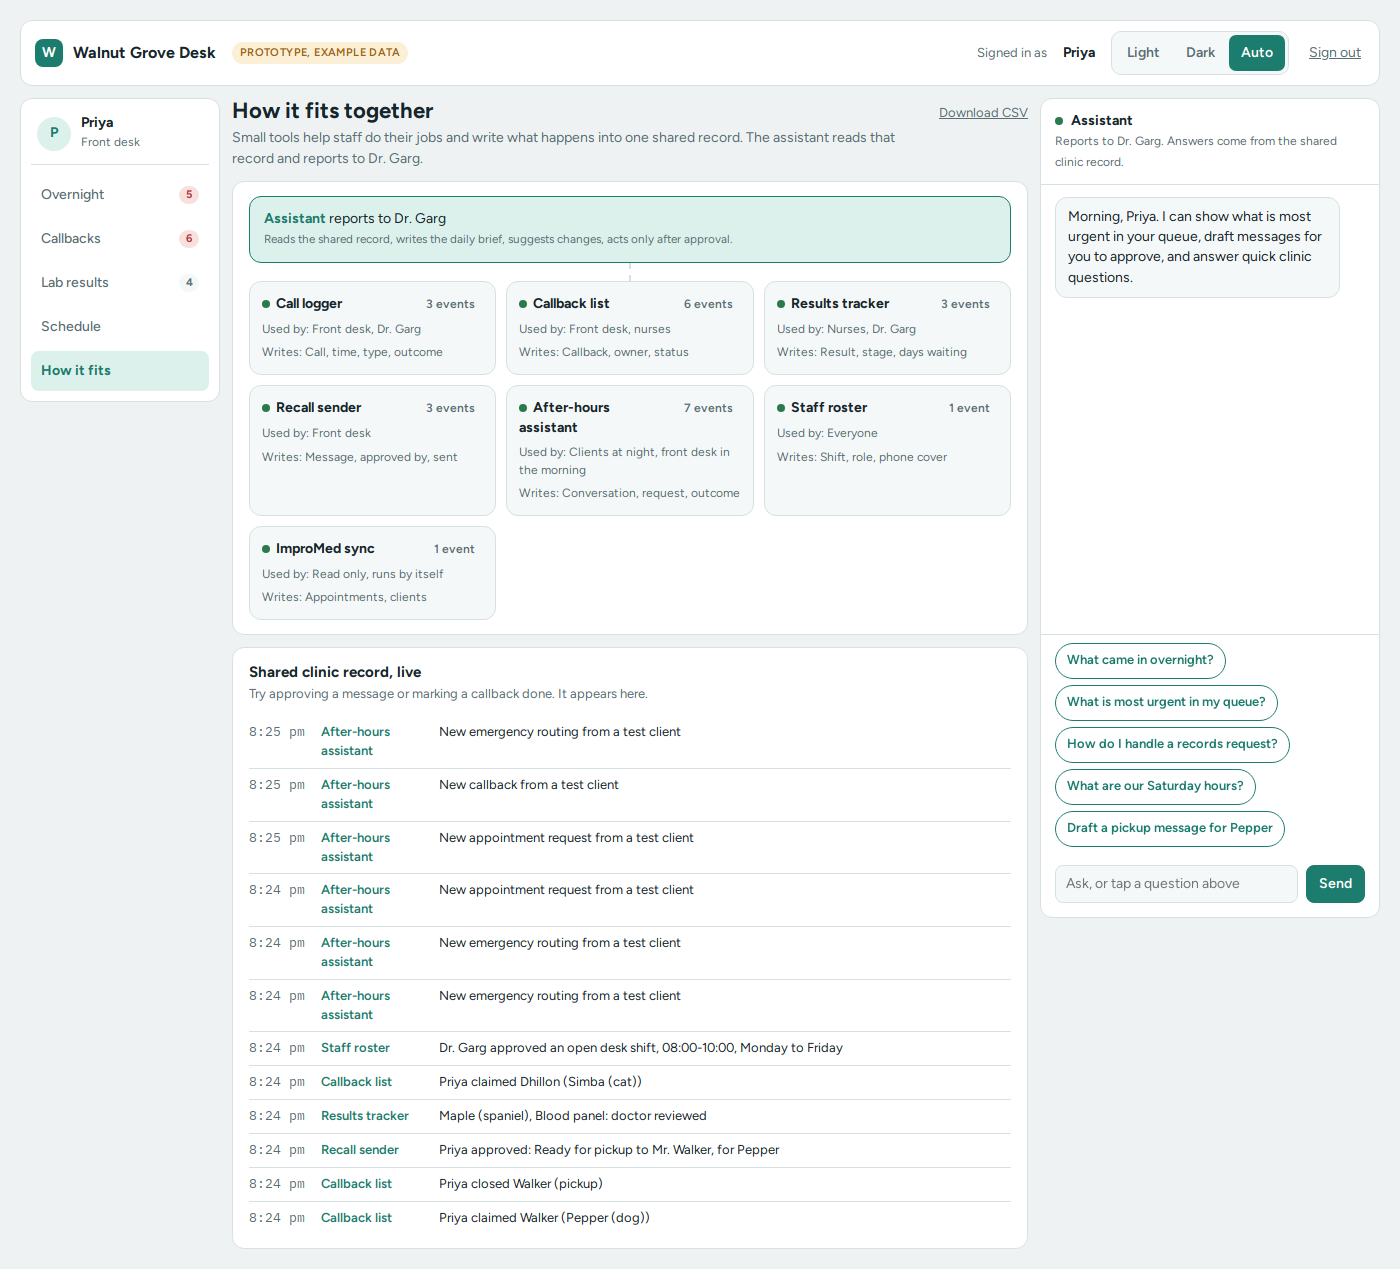
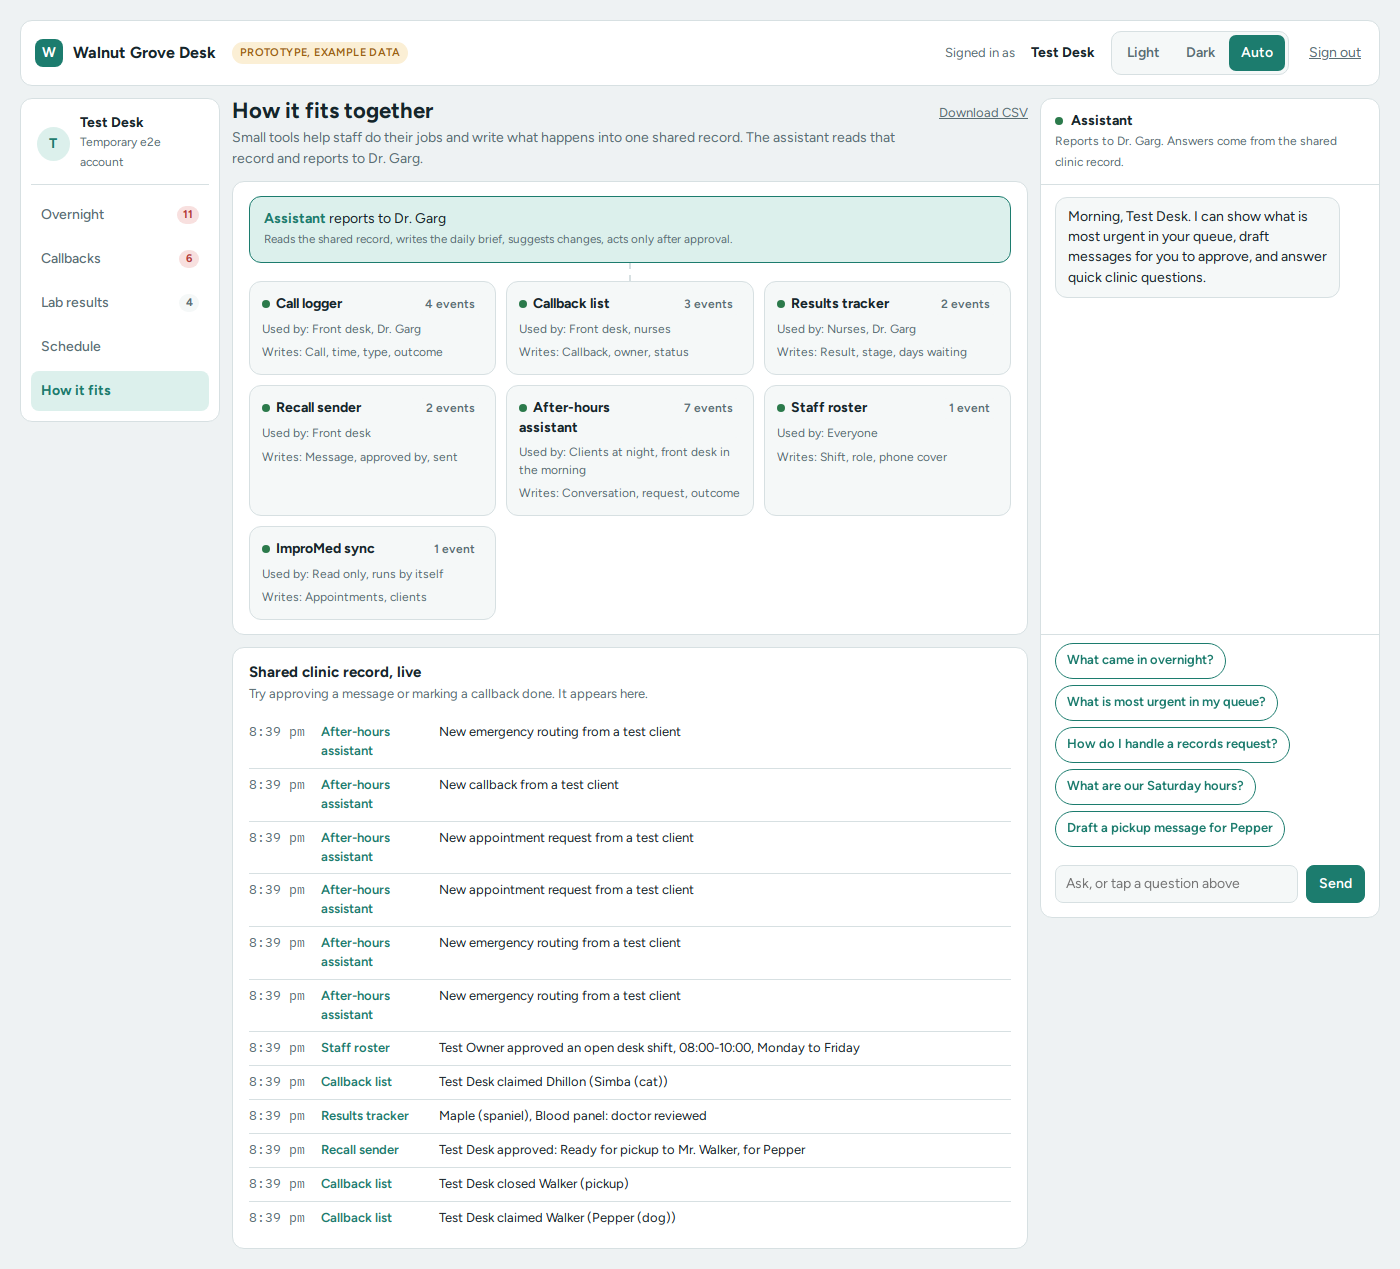
Security, operations and progress docs; e2e usernames configurable

diff --git a/e2e/test_flows.py b/e2e/test_flows.py
@@ -6,6 +6,10 @@ from playwright.sync_api import expect
 
 from helpers import BASE, sign_in
 
+OWNER = os.environ.get("WALNUT_E2E_OWNER", "garg")
+DESK = os.environ.get("WALNUT_E2E_DESK", "priya")
+NURSE = os.environ.get("WALNUT_E2E_NURSE", "anita")
+
 
 def page_for(ctx, user):
     p = ctx().new_page()
@@ -17,7 +21,7 @@ def go(p, label):
     p.get_by_role("link", name=re.compile("^" + label)).click()
 
 
-@pytest.mark.parametrize("user,landing", [("garg", "Good"), ("priya", "Overnight"), ("anita", "Lab results")])
+@pytest.mark.parametrize("user,landing", [(OWNER, "Good"), (DESK, "Overnight"), (NURSE, "Lab results")])
 def test_sign_in_each_role(ctx, user, landing):
     p = page_for(ctx, user)
     expect(p.get_by_role("heading", level=1).first).to_contain_text(landing)
@@ -27,14 +31,14 @@ def test_sign_in_each_role(ctx, user, landing):
 def test_wrong_password_generic(ctx):
     p = ctx().new_page()
     p.goto(BASE + "/login")
-    p.get_by_label("Username").fill("priya")
+    p.get_by_label("Username").fill(DESK)
     p.get_by_label("Password").fill("not-the-password")
     p.get_by_role("button", name="Sign in").click()
     expect(p.get_by_role("alert")).to_have_text("Wrong username or password")
 
 
 def test_desk_claims_done_and_approves_draft(ctx):
-    p = page_for(ctx, "priya")
+    p = page_for(ctx, DESK)
     go(p, "Callbacks")
     row = p.locator(".row", has_text="Walker").first
     row.get_by_role("button", name="I will call back").click()
@@ -49,7 +53,7 @@ def test_desk_claims_done_and_approves_draft(ctx):
 
 
 def test_nurse_advances_result_and_cannot_see_drafts(ctx):
-    p = page_for(ctx, "anita")
+    p = page_for(ctx, NURSE)
     go(p, "Lab results")
     btn = p.get_by_role("button", name="Mark reviewed").first
     btn.click()
@@ -59,18 +63,18 @@ def test_nurse_advances_result_and_cannot_see_drafts(ctx):
 
 
 def test_live_update_between_two_users(ctx):
-    desk = page_for(ctx, "priya")
-    nurse = page_for(ctx, "anita")
+    desk = page_for(ctx, DESK)
+    nurse = page_for(ctx, NURSE)
     go(desk, "Callbacks")
     go(nurse, "Callbacks")
     row = desk.locator(".row:not(.done)", has=desk.get_by_role("button", name="I will call back")).first
     who = row.locator(".who").inner_text().split(" for ")[0].strip()
     row.get_by_role("button", name="I will call back").click()
-    expect(nurse.locator(".row", has_text=who).first.locator(".tag.acc")).to_contain_text("With Priya", timeout=5000)
+    expect(nurse.locator(".row", has_text=who).first.locator(".tag.acc")).to_contain_text("With " + os.environ.get("WALNUT_E2E_DESK_NAME", "Priya"), timeout=5000)
 
 
 def test_owner_approves_desk_shift(ctx):
-    p = page_for(ctx, "garg")
+    p = page_for(ctx, OWNER)
     rec = p.locator(".rec", has_text="open desk shift").first
     rec.get_by_role("button", name="Approve").click()
     expect(p.get_by_text("Added to the schedule")).to_be_visible()
@@ -89,7 +93,7 @@ def run_sim(p, channel, first_option, expect_text):
 
 @pytest.mark.parametrize("channel", ["Text message", "Phone call"])
 def test_simulator_emergency(ctx, channel):
-    p = page_for(ctx, "priya")
+    p = page_for(ctx, DESK)
     sim = run_sim(p, channel, "Something urgent", "")
     expect(sim.locator(".bub.bot").last).to_contain_text("vet", timeout=5000)
     expect(p.get_by_text("New emergency routing")).to_have_count(0)  # event text is in the feed, not here
@@ -98,7 +102,7 @@ def test_simulator_emergency(ctx, channel):
 
 @pytest.mark.parametrize("channel", ["Text message", "Phone call"])
 def test_simulator_booking_and_free_text(ctx, channel):
-    p = page_for(ctx, "priya")
+    p = page_for(ctx, DESK)
     go(p, "Overnight")
     sim = p.locator("#sim")
     sim.get_by_role("button", name=channel, exact=True).click()
@@ -111,7 +115,7 @@ def test_simulator_booking_and_free_text(ctx, channel):
 
 
 def test_simulator_refill_and_typed_message(ctx):
-    p = page_for(ctx, "priya")
+    p = page_for(ctx, DESK)
     go(p, "Overnight")
     sim = p.locator("#sim")
     sim.get_by_role("button", name="Refill or food order").click()
@@ -125,7 +129,7 @@ def test_simulator_refill_and_typed_message(ctx):
 
 
 def test_desk_blocked_from_brief(ctx):
-    p = page_for(ctx, "priya")
+    p = page_for(ctx, DESK)
     expect(p.get_by_role("link", name=re.compile("^Brief"))).to_have_count(0)
     r = p.request.get(BASE + "/api/brief")
     assert r.status == 403
@@ -135,5 +139,5 @@ def test_desk_blocked_from_brief(ctx):
 
 
 def test_admin_hidden_from_non_admin(ctx):
-    p = page_for(ctx, "anita")
+    p = page_for(ctx, NURSE)
     expect(p.get_by_role("link", name="Admin")).to_have_count(0)

diff --git a/e2e/app_shots.py b/e2e/app_shots.py
@@ -1,3 +1,4 @@
+import os
 """Screenshots of every screen per role into docs/screenshots/app/. Usage: WALNUT_E2E_CREDS=... python e2e/app_shots.py"""
 import re
 import sys
@@ -8,11 +9,15 @@ from playwright.sync_api import sync_playwright
 sys.path.insert(0, str(Path(__file__).parent))
 from helpers import BASE, sign_in  # noqa: E402
 
+OWNER = os.environ.get("WALNUT_E2E_OWNER", "garg")
+DESK = os.environ.get("WALNUT_E2E_DESK", "priya")
+NURSE = os.environ.get("WALNUT_E2E_NURSE", "anita")
+
 OUT = Path(__file__).resolve().parent.parent / "docs" / "screenshots" / "app"
 OUT.mkdir(parents=True, exist_ok=True)
 VIEWS = {"brief": "Brief", "overnight": "Overnight", "callbacks": "Callbacks", "lab-results": "Lab results",
          "schedule": "Schedule", "after-hours-setup": "After-hours setup", "how-it-fits": "How it fits", "admin": "Admin"}
-USERS = {"garg": "garg", "desk": "priya", "nurse": "anita"}
+USERS = {OWNER: OWNER, "desk": DESK, "nurse": NURSE}
 
 with sync_playwright() as p:
     b = p.chromium.launch()
@@ -27,11 +32,11 @@ with sync_playwright() as p:
             link.click()
             pg.wait_for_timeout(900)
             pg.screenshot(path=str(OUT / f"{tag}-{slug}.png"), full_page=True)
-            if tag == "garg" and slug in ("brief", "overnight", "callbacks"):
+            if tag == OWNER and slug in ("brief", "overnight", "callbacks"):
                 pg.evaluate("document.documentElement.setAttribute('data-theme','dark')")
                 pg.screenshot(path=str(OUT / f"{tag}-{slug}-dark.png"), full_page=True)
                 pg.evaluate("document.documentElement.removeAttribute('data-theme')")
-        if tag == "garg":
+        if tag == OWNER:
             ph = b.new_context(viewport={"width": 390, "height": 844})
             pp = ph.new_page()
             sign_in(pp, user)

diff --git a/deploy/bin/walnut-backup.py b/deploy/bin/walnut-backup.py
@@ -1,0 +1,23 @@
+#!/opt/walnut-desk/.venv/bin/python
+"""Daily online backup of the app database (SQLite backup API), gzip, keep 14 days. Runs as walnut-app."""
+import datetime, glob, gzip, os, shutil, sqlite3, sys
+SRC = os.environ.get("WALNUT_DB_PATH", "/var/lib/walnut-desk/app.db")
+DIR = os.environ.get("WALNUT_BACKUP_DIR", "/var/lib/walnut-desk/backups")
+KEEP = int(os.environ.get("WALNUT_BACKUP_KEEP_DAYS", "14"))
+stamp = datetime.datetime.now(datetime.timezone.utc).strftime("%Y%m%d-%H%M%S")
+tmp = os.path.join(DIR, f".app-{stamp}.db")
+src, dst = sqlite3.connect(SRC), sqlite3.connect(tmp)
+src.backup(dst)
+ok = dst.execute("PRAGMA integrity_check").fetchone()[0]
+src.close(); dst.close()
+if ok != "ok":
+    os.unlink(tmp); sys.exit(f"integrity check failed: {ok}")
+out = os.path.join(DIR, f"app-{stamp}.db.gz")
+with open(tmp, "rb") as f, gzip.open(out, "wb") as g:
+    shutil.copyfileobj(f, g)
+os.chmod(out, 0o600); os.unlink(tmp)
+cut = datetime.datetime.now().timestamp() - KEEP * 86400
+old = [p for p in glob.glob(os.path.join(DIR, "app-*.db.gz")) if os.path.getmtime(p) < cut]
+for p in old:
+    os.unlink(p)
+print(f"backup ok {os.path.basename(out)} size={os.path.getsize(out)} removed_old={len(old)}")

diff --git a/docs/SECURITY.md b/docs/SECURITY.md
@@ -1,0 +1,52 @@
+# Security
+
+## Before any real clinic data goes in
+
+**Do not load real operational data (clients, pets, appointments, lab results, real call logs) until Dr. Garg has reviewed hosting, backups, consent and privacy obligations.** The clinic is in British Columbia, so BC's Personal Information Protection Act (PIPA) applies, along with the CVBC's rules on veterinary records. Items to decide first:
+
+1. **Hosting location.** The server is a Hetzner VM. Where it is located is not recorded here; check the Hetzner console. Decide whether data held outside Canada is acceptable, and tell clients if so.
+2. **Backups.** Daily backups are kept on the same machine, unencrypted (mode 600, app user only). Before real data: encrypt them (for example with `age` to a key kept offline) and copy them off the server.
+3. **Consent and recording.** Callers hear "This call is being recorded". Using those recordings for analysis and testing needs a stated purpose and a retention period.
+4. **AI provider.** DeepSeek processes data on servers outside Canada (China). All three AI switches are off by default. "Allow call transcripts to be sent for labeling" should stay off unless Dr. Garg decides this is acceptable and clients have been told.
+5. **Access reviews.** Review the user list monthly in Admin > Users and deactivate leavers the same day.
+6. **Audit retention.** The audit log (events table) is append-only and kept forever. Decide a retention period, for example 7 years to match record keeping.
+7. **Breach process.** Write down who to call, how to rotate secrets (see below), and the PIPA duty to notify affected people and the Commissioner when there is a real risk of significant harm.
+
+## Threats and what is in place
+
+| Threat | Protection |
+|---|---|
+| Stolen or guessed password | argon2id hashes, 12+ character passwords, common-password check, forced change at first sign-in, lockout after 5 failures for 15 minutes, 20 attempts per IP per 10 minutes, generic error text |
+| Session theft | `__Host-wgd` cookie: Secure, HttpOnly, SameSite=Lax, 12 h idle and 7 day maximum. HTTPS only, HSTS one year |
+| Cross-site request forgery | Per-session token required in `X-CSRF-Token` on every change |
+| Staff seeing more than their role allows | Server-side permission check on every route. A test walks every API route and checks that desk and nurse get 403 where they should |
+| Injection, XSS | SQLAlchemy parameterised queries only, pydantic validation with length limits, React escaping, no raw HTML rendering, CSP `default-src 'self'` with no third-party scripts or fonts, CSV exports neutralise formulas |
+| Clickjacking, sniffing | `frame-ancestors 'none'`, `X-Frame-Options: DENY`, `nosniff`, `Referrer-Policy: same-origin` |
+| Exposed internals | App and Caddy admin bound to 127.0.0.1. ufw allows only 22, 80, 443. No `/docs` or `/openapi.json` in production |
+| Server compromise via the app | App runs as `walnut-app` (no shell) under systemd with `ProtectSystem=strict`, `NoNewPrivileges`, and `/srv/walnut-private` made inaccessible |
+| Real transcripts leaking | They live only in `/srv/walnut-private` (mode 700, user `walnut-pipeline`). The app user cannot read it, which has been tested. The app only holds aggregate counts. A leak scanner checked the repo, web root, app DB and logs for phone numbers and transcript text, with zero matches |
+| Assistant giving medical advice | Client-facing text comes only from fixed templates; a model never writes to clients. Advice and dose requests get a fixed refusal. 0 advice replies in 181 test scenarios |
+| Fake hospital details | The assistant names only hospitals the clinic has marked confirmed, and gives a phone or address only when those fields are filled. They ship empty |
+| Retell hook abuse | Off by default (404). When on, a 64-character shared secret header is required (stored hashed, constant-time compare) plus an optional signature check. Dry run by default. Nothing ever places a call or sends a text |
+
+## What is not protected
+
+- **No two-factor sign-in.** Add it before real data.
+- **Single server.** If the disk fails, data since the last off-site copy is lost, and there are no off-site copies yet.
+- **The Retell signature check** in `backend/app/retell/verify.py` is written from memory of Retell's docs and has not been checked against them. The shared secret is the real protection.
+- **`shred` is best effort** on SSDs and journaling filesystems, and does nothing about provider snapshots.
+- **Root on this VM can read everything**, including the private transcripts. Anyone with the SSH key is fully trusted.
+- **Claude Code session logs** under `/root/.claude/projects` contain the transcript snippets the build model read while labeling. `WIPE.sh` removes them.
+
+## Rotating secrets
+
+- App keys: edit `/etc/walnut-desk/app.env` (`WALNUT_SECRET_KEY` signs nothing long-lived, but changing it is harmless). Changing `WALNUT_FERNET_KEY` makes stored AI and Retell keys unreadable, so enter them again in Admin > Settings afterwards. Then run `systemctl restart walnut-desk`.
+- Sign everyone out: `sqlite3 /var/lib/walnut-desk/app.db "delete from sessions"`.
+- Retell secret: Admin > Settings > Retell > Regenerate secret.
+
+## Self-checks run (2026-10-28)
+
+- `pip-audit` on backend and pipeline requirements: no known vulnerabilities.
+- `npm audit --omit=dev`: 0 vulnerabilities in what is shipped. `npm audit` including dev tools reports 2 issues in esbuild and Vite's development server, which never runs in production.
+- Backend tests: 136 passed, including the permission walker, CSRF, lockout and session expiry. Pipeline tests: 30 passed.
+- End-to-end suite against the public URL: 15 passed.

diff --git a/docs/OPERATIONS.md b/docs/OPERATIONS.md
@@ -1,0 +1,55 @@
+# Operations
+
+Public URL: https://77-42-69-194.sslip.io (also in `/var/lib/walnut-desk/public_url.txt`). It stays the same as long as the server keeps IP 77.42.69.194. sslip.io turns the name into the IP, and Caddy renews the Let's Encrypt certificate by itself.
+
+## Everyday commands (as root)
+
+| Task | Command |
+|---|---|
+| Health check | `walnut-health` |
+| Restart the app | `systemctl restart walnut-desk` |
+| Restart the web server | `systemctl restart caddy` |
+| App logs | `journalctl -u walnut-desk -f` |
+| Run a backup now | `systemctl start walnut-backup` (daily at 10:17 UTC, kept 14 days, in `/var/lib/walnut-desk/backups/`) |
+| Restore a backup | `walnut-restore /var/lib/walnut-desk/backups/app-YYYYMMDD-HHMMSS.db.gz` (stops the app, keeps the old DB as `app.db.before-restore.*`, checks integrity, starts the app) |
+| Run suggestion rules now | `systemctl start walnut-rules` (every 15 minutes anyway) |
+| Reset the demo cards | Admin > Settings > Reset demo data, or `cd /opt/walnut-desk/backend && sudo -u walnut-app env $(cat /etc/walnut-desk/app.env) ../.venv/bin/python -m app.seed --reset-demo` |
+
+## Users
+
+- Add a user: Admin > Users > Add user. The page shows a one-time password; the person must change it at first sign-in.
+- Reset a password: Admin > Users > Reset password (shows a new one-time password).
+- Remove access: Admin > Users > Deactivate. Their sessions stop working at once.
+
+## Settings
+
+- Prototype banner: Admin > Settings > "Show the prototype banner" off.
+- Clinic name, rule thresholds, AI provider (DeepSeek key), Retell hook: Admin > Settings.
+
+## Updating the app
+
+```
+cd /opt/walnut-desk
+git pull                                   # or copy new code in
+uv pip install --python .venv/bin/python -r backend/requirements.txt
+(cd frontend && npm ci && npm run build)
+cd backend && WALNUT_ENV=test ../.venv/bin/pytest -q && cd ..
+systemctl restart walnut-desk              # runs database migrations on start
+walnut-health
+```
+
+## If the URL stops working
+
+1. `walnut-health` shows which part is down.
+2. If the server's IP changed, the sslip.io name changes with it: edit `/etc/caddy/Caddyfile` and `/var/lib/walnut-desk/public_url.txt` to the new `A-B-C-D.sslip.io`, then `systemctl reload caddy`.
+3. Fallback if ports 80 and 443 are ever blocked: install `cloudflared` and run `cloudflared tunnel --url http://localhost:8000` as a service. Its URL changes on every restart; write it to `public_url.txt`.
+
+## Restart behaviour (tested 2026-10-28)
+
+- `kill -9` of the app process: systemd restarted it within about 3 seconds (`NRestarts=1`), and the public health check returned ok.
+- `systemctl restart caddy`: the public URL was back within seconds.
+- All units (`walnut-desk`, `caddy`, `walnut-backup.timer`, `walnut-rules.timer`, `ufw`) are enabled at boot. A full reboot was not run, because the build agent runs on this same VM; run `reboot` and then `walnut-health` to confirm.
+
+## Real call data
+
+See `docs/SECURITY.md` and the handoff. One command removes it all: `sudo bash /srv/walnut-private/WIPE.sh` (try `DRY_RUN=1` first).

diff --git a/docs/PROGRESS.md b/docs/PROGRESS.md
@@ -1,0 +1,13 @@
+# Progress
+
+| Milestone | Status | Evidence |
+|---|---|---|
+| M1 Skeleton and plan | Done | Server notes, plan, repo, Alembic, `/healthz`, systemd, Caddy and Let's Encrypt for 77-42-69-194.sslip.io. check-host.net nodes in CH, HK and SG got HTTP 200 |
+| M2 Accounts and roles | Done | argon2id, sessions, CSRF, lockout, forced change, admin users, append-only events. Permission walker test over every route |
+| M3 Core record and tools | Done | Callbacks, results, drafts, shifts, suggestions, events, SSE. E2E: desk claim, done, approve; nurse advance; two contexts live within 5 s |
+| M4 Overnight and after-hours | Done | State machine, text and call modes, two-layer emergency (built-in rules are a floor), booking confirm then "Done in ImproMed", setup page. Engine tests: every keyword and YAML phrase routes to emergency, adversarial texts get no advice |
+| M5 Brief and assistant | Done | Metrics in SQL, four rules with real effects, 14 assistant handlers from queries, AI wording with number check (test rejects a made-up figure) |
+| M6 Retell, import, export | Done | Endpoints off by default and dry run, `docs/RETELL.md` curls run against a dev server, import for 6 kinds, CSV export, PimsAdapter with samples |
+| M6b Real call analytics | Done, with honest gaps | Private user and dir, app user read denied, audit, 112-call gold set, rules labeler (private recall 0.57, below target, see LABELER_EVAL.md), 949 calls' text deleted, CSV shredded, 227 aggregate rows imported, drafts, 181-scenario eval (emergency recall 1.0, 0 advice), WIPE.sh tested on a copy, leak scan clean |
+| M7 Hardening and ops | Done | Backups with retention and restore check, rules timer, journald cap, health script, pip-audit clean, kill -9 restart tested. Reboot not run (see OPERATIONS.md) |
+| M8 Verification and handoff | Done | 136 backend tests, 30 pipeline tests, 15 e2e tests against the public URL, screenshots in `docs/screenshots/app/` next to `docs/screenshots/reference/`, handoff in `/root/HANDOFF.md` |
